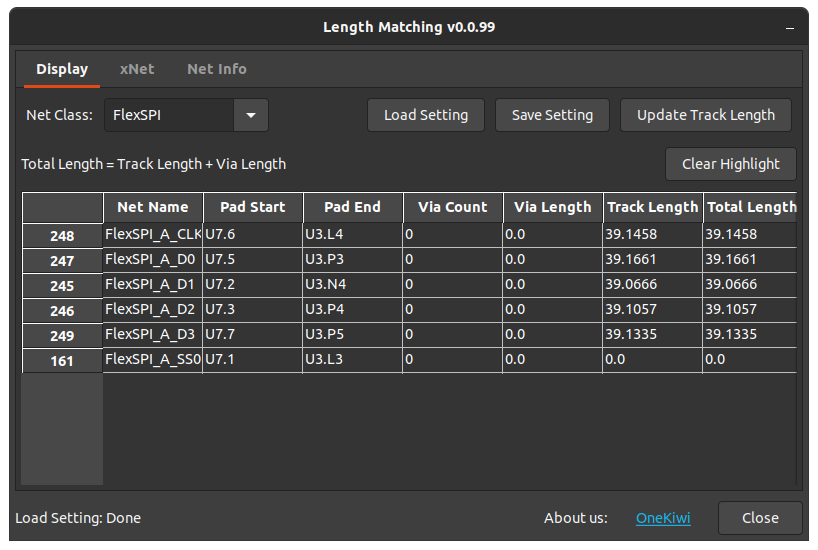
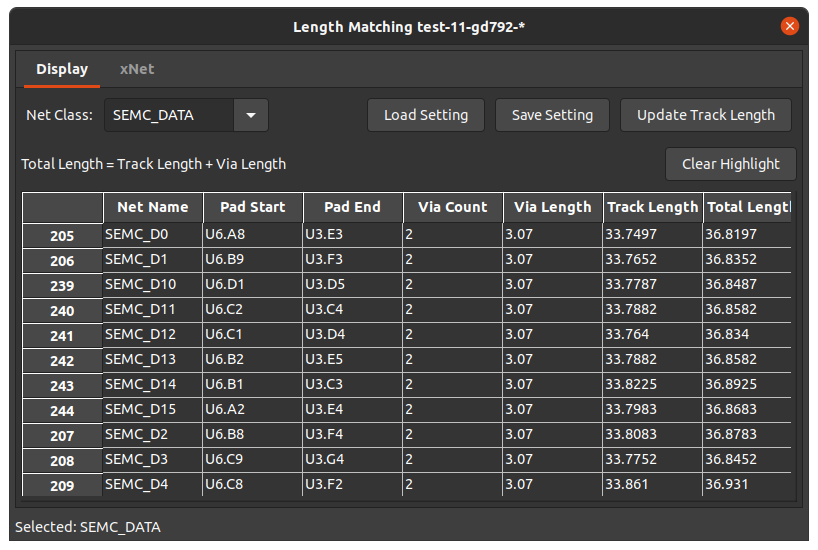
update image

diff --git a/onekiwi/view/dialog.py b/onekiwi/view/dialog.py
@@ -13,12 +13,13 @@ import wx.adv
 import wx.grid
 
 ###########################################################################
-## Class LengthMatchingFrame
+## Class LengthMatchingDialog
 ###########################################################################
-class LengthMatchingFrame ( wx.Frame ):
+
+class LengthMatchingDialog ( wx.Dialog ):
 
 	def __init__( self, parent ):
-		wx.Frame.__init__ ( self, parent, id = wx.ID_ANY, title = u"Length Matching", pos = wx.DefaultPosition, size = wx.Size( 798,532 ), style = wx.CAPTION|wx.MINIMIZE_BOX|wx.TAB_TRAVERSAL )
+		wx.Dialog.__init__ ( self, parent, id = wx.ID_ANY, title = u"Length Matching", pos = wx.DefaultPosition, size = wx.Size( 798,532 ), style = wx.DEFAULT_DIALOG_STYLE )
 
 		self.SetSizeHints( wx.DefaultSize, wx.DefaultSize )
 
@@ -35,17 +36,6 @@ class LengthMatchingFrame ( wx.Frame ):
 
 		bSizer5.Add( self.textStatus, 1, wx.ALL|wx.ALIGN_CENTER_VERTICAL, 5 )
 
-		self.textAbout = wx.StaticText( self, wx.ID_ANY, u"About us:", wx.DefaultPosition, wx.DefaultSize, 0 )
-		self.textAbout.Wrap( -1 )
-
-		bSizer5.Add( self.textAbout, 0, wx.ALL|wx.ALIGN_CENTER_VERTICAL, 5 )
-
-		self.hyperlink = wx.adv.HyperlinkCtrl( self, wx.ID_ANY, u"OneKiwi", u"https://github.com/OneKiwiTech", wx.DefaultPosition, wx.DefaultSize, wx.adv.HL_DEFAULT_STYLE )
-		bSizer5.Add( self.hyperlink, 0, wx.ALL|wx.ALIGN_CENTER_VERTICAL, 5 )
-
-		self.buttonClose = wx.Button( self, wx.ID_ANY, u"Close", wx.DefaultPosition, wx.DefaultSize, 0 )
-		bSizer5.Add( self.buttonClose, 0, wx.ALL, 5 )
-
 
 		bSizer4.Add( bSizer5, 0, wx.EXPAND, 5 )
 
@@ -55,9 +45,16 @@ class LengthMatchingFrame ( wx.Frame ):
 
 		self.Centre( wx.BOTH )
 
+		# Connect Events
+		self.Bind( wx.EVT_CLOSE, self.OnDialogClose )
 
 	def __del__( self ):
 		pass
+
+
+	# Virtual event handlers, override them in your derived class
+	def OnDialogClose( self, event ):
+		event.Skip()
 
 
 ###########################################################################

diff --git a/onekiwi/controller/controller.py b/onekiwi/controller/controller.py
@@ -13,10 +13,10 @@ class Controller:
         
         self.view.notebook.AddPage(self.panel1, "Display")
         self.view.notebook.AddPage(self.panel2, "xNet")
-        self.view.notebook.AddPage(self.panel3, "Net Info")
+        #self.view.notebook.AddPage(self.panel3, "Net Info")
 
         # Connect Events
-        self.view.buttonClose.Bind(wx.EVT_BUTTON, self.OnCloseClick)
+        self.view.Bind(wx.EVT_CLOSE, self.OnDialogClose)
         self.panel1.buttonUpdate.Bind(wx.EVT_BUTTON, self.OnUpdateClick)
         self.panel1.buttonSave.Bind(wx.EVT_BUTTON, self.OnSaveClick)
         self.panel1.buttonLoad.Bind(wx.EVT_BUTTON, self.OnLoadClick)
@@ -27,6 +27,9 @@ class Controller:
 
     def Show(self):
         self.view.Show()
+    
+    def Close(self):
+        self.view.Destroy()
 
     # Event handlers
     def OnLoadClick(self, event):
@@ -102,7 +105,7 @@ class Controller:
     def OnClearHighlightClick(self, event):
         self.model.clear_highlight_net()
 
-    def OnCloseClick(self, event):
+    def OnDialogClose(self, event):
         self.model.clear_highlight_net()
-        self.view.Close()
+        self.Close()
     

diff --git a/onekiwi/view/view.py b/onekiwi/view/view.py
@@ -1,9 +1,9 @@
 from .dialog import *
 from ..version import version
 
-class LengthMatchingView(LengthMatchingFrame):
+class LengthMatchingView(LengthMatchingDialog):
     def __init__(self):
-        super(LengthMatchingView, self).__init__(None)
+        LengthMatchingDialog.__init__(self, None)
         self.SetTitle('Length Matching %s' % version)
 
     def SetText(self, status):

diff --git a/README.md b/README.md
@@ -1,11 +1,17 @@
 # Length Matching Plugin
-
+![screenshot](icon/icon.png)  
+Track length matching with KiCAD
+## GUI
 ![screenshot](doc/length_matching.png)
 
 ## Via Length
 ![Via Length](doc/via_length.png)
-- Image from [epiccolo.com](https://www.epiccolo.com/articles/pcb-vias-guide)
+
+## Demo Video
+[![Watch the video](https://img.youtube.com/vi/tDM1MDhxVoc/sddefault.jpg)](https://youtu.be/tDM1MDhxVoc)
+
 ## Licence and credits
+Plugin code is licensed under MIT license, see LICENSE for more info.  
 KiCad Plugin code/structure from:
 - [Kicad_action_plugins](https://github.com/MitjaNemec/Kicad_action_plugins/tree/master/pad2pad_track_distance)
 - [wiki.wxpython.org](https://wiki.wxpython.org/ModelViewController)
